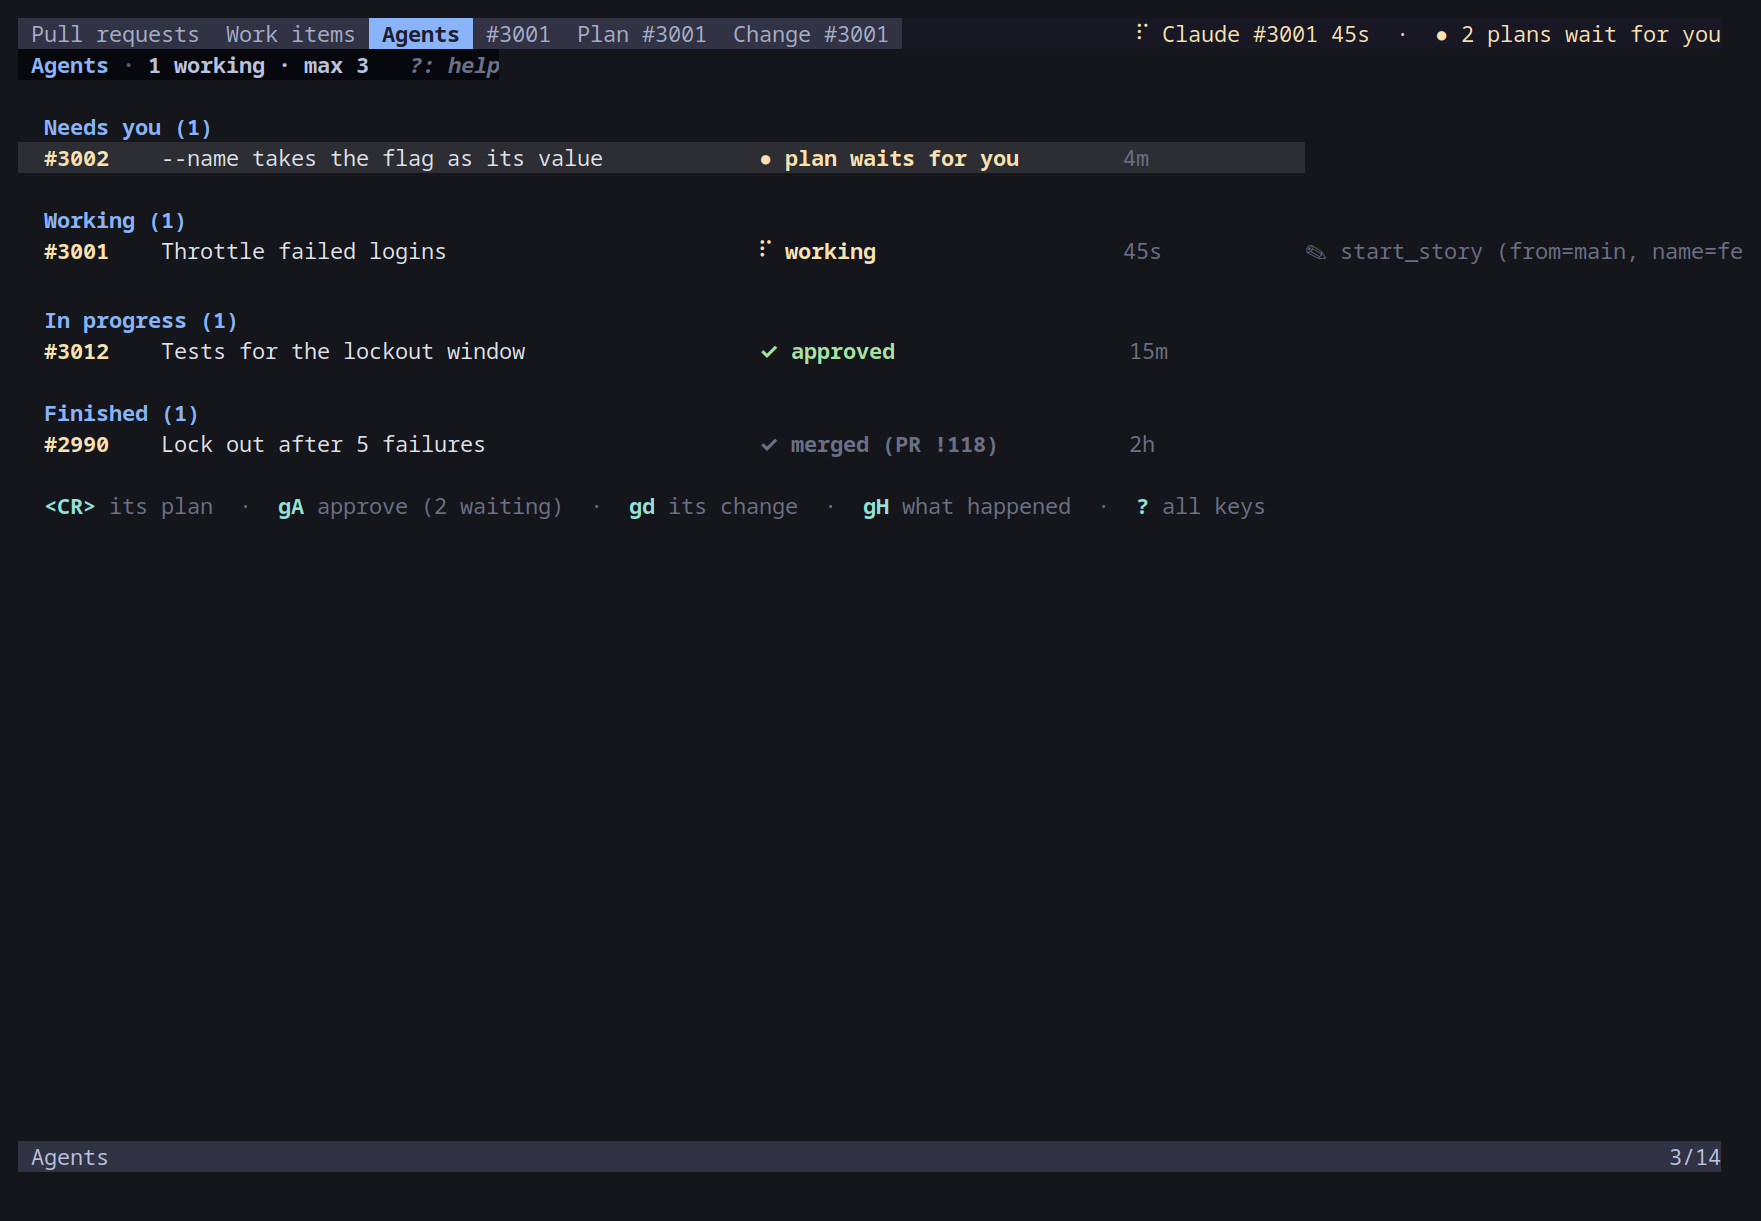
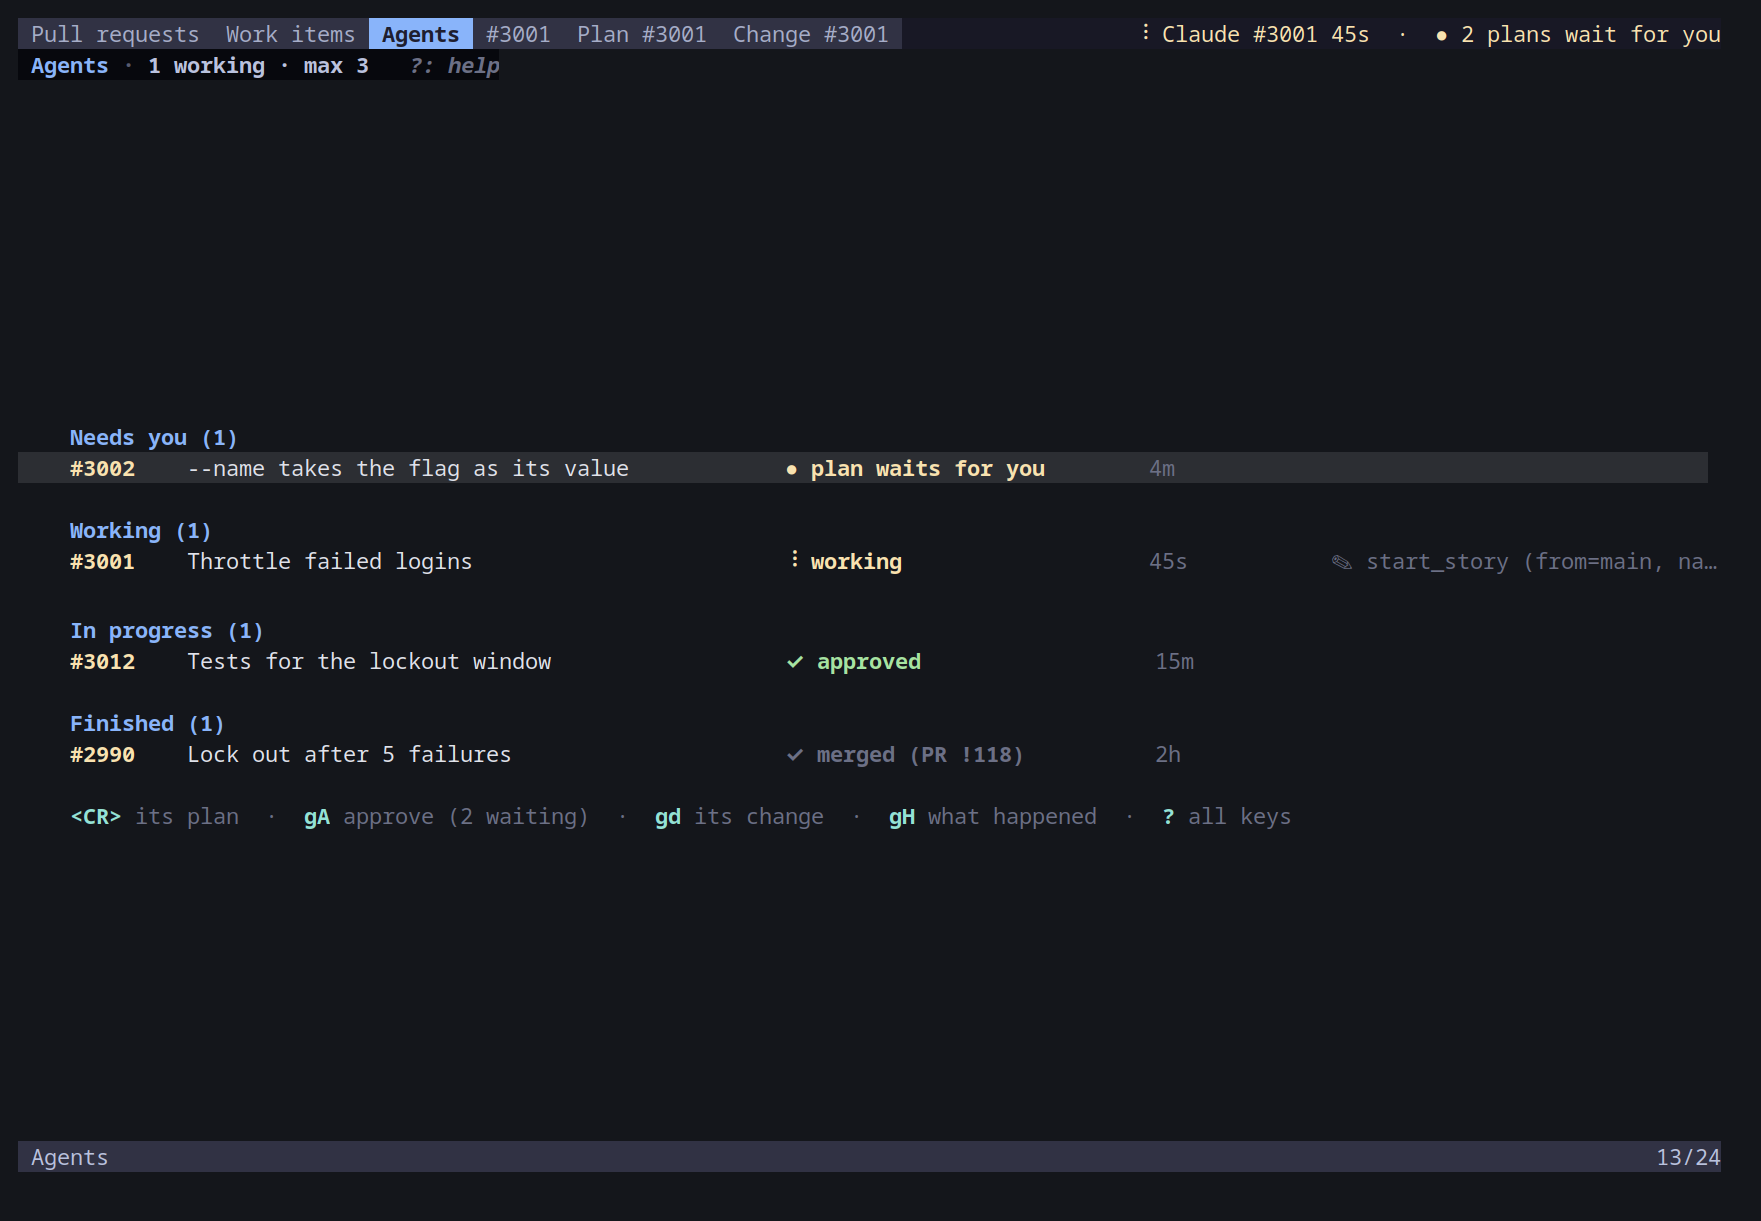
PR dashboard: an agent column and ga for its chat in a popup; the Agents screen is centred
A PR's agent (one fixing its review comments, or the work item's agent
that opened it) shows in a column after threads with its state as the
Agents screen has it, following the agent between polls. ga opens that
agent's conversation in a popup over the dashboard, using the chat's own
buffers: i types, <CR> sends to that agent, q closes. The batch smoke
check's unread-dot test now looks only before the PR id, since the agent
column has its own dots.

Claude-Session: https://claude.ai/code/session_01A9LeS8yZgARUJ5MKQDRoSq

diff --git a/docs/dashboard.md b/docs/dashboard.md
@@ -36,7 +36,8 @@ Actionable just shows `Pull requests   ?: help`).
 The table's columns scale with the window instead of the fixed widths an
 older version hard-coded: title and reviewer summary grow to fill a wide
 terminal, id/badges/vote/thread-count stay fixed, and on a narrow one the
-reviewer summary column drops first, then updated-human, then author (repo
+reviewer summary column drops first, then updated-human, then the agent
+column, then author (repo
 and title just shrink towards their minimum instead of disappearing) - a
 `[narrow]` winbar tag appears whenever a column had to be dropped. Resizing
 the terminal re-renders immediately (`lua/azure-cli/ui.lua`'s `UI.layout`
@@ -63,6 +64,7 @@ solves the widths; see its own header comment for the exact rules).
 | `gW` | Pop up the work items linked to the PR - state, type, title and assignee - where `<CR>` opens one in the work-item detail view, `gs` changes its state, `gl` links another and `gL` unlinks the one under the cursor. A row shows its first linked item next to the title, e.g. `#3001` or `#3001 +1`, once they've been read in the background |
 | `gl` / `gL` | Link a work item to the PR (a popup of your sprint's items, or type an id) / unlink one (a popup of its linked items). Both dashboards update straight away |
 | `gq` | Show/hide the [chat panel](chat.md); the agent knows which PR is under the cursor |
+| `ga` | The conversation of the PR's agent (see the agent column below) in a popup over the dashboard: `i` types to it, `<CR>` sends, `q` (or leaving it) closes |
 | `W` | Switch to the work-items dashboard |
 | `q` | Quit |
 
@@ -76,6 +78,13 @@ Each row carries badges to the left of the id:
 | `⇣` | Branches or content being fetched in the background right now |
 | `◆` | Fully prefetched; opens instantly |
 | `@` | An active thread mentions you; the PR also appears under Mentions |
+
+While a listed PR has an [agent](chat.md#several-agents-at-once) - one
+started on it to fix its review comments, or the work item's agent that
+opened it - an **agent** column after threads shows its state the way the
+Agents screen does (`⋯ working`, `● plan waits for you`, `✓ approved`,
+`✓ PR !101 open`, ...; with several, the one that needs you first). It
+follows the agent between polls, and `ga` opens its conversation in a popup.
 
 The build column to the right of the id shows `✓` succeeded, `✗` failed,
 `↻` expired, and `●` running with the queue position when known. `⚠` marks a

diff --git a/docs/chat.md b/docs/chat.md
@@ -653,7 +653,7 @@ for an agent; its plan waiting for you; approved; revising; pushed;
 `PR !123 open` once it opened one; finished - `merged` or `PR abandoned` -
 once that PR is closed, which it learns from the
 [watched PRs](#conversations-agents-and-models) check), how long since it
-last did something, and what it has used so far, and the winbar adds it up: its cost when the
+last did something, and what it has used so far, centred in its window, and the winbar adds it up: its cost when the
 agent reports one (Claude Code does, and an ACP agent can, through ACP's
 `usage_update`), else its premium requests (`agent.premium_requests`:
 each message counts as its model's multiplier). An ACP agent's
@@ -683,7 +683,9 @@ agent opened for a work item goes back to that agent instead - the one
 that wrote the original plan and knows the change: it plans the fix as a
 new revision of that plan (on the Agents screen it's the work item's row
 again, waiting for you), and once you approve, it changes its story's
-worktree and pushes to the PR's branch.
+worktree and pushes to the PR's branch. On the PR dashboard, the agent
+column shows each PR's agent and what it's doing, and `ga` there opens
+its conversation in a popup ([dashboard](dashboard.md)).
 
 Every plan opens in a tab of its own, and so does every change - opening
 another doesn't replace the one you were reading, and `r`, `gA` or `ga`

diff --git a/docs/commands-and-keys.md b/docs/commands-and-keys.md
@@ -95,6 +95,7 @@ paste the output here after changing a default.
 
 | Action | Default key(s) |
 |---|---|
+| `agent_chat` | `ga` |
 | `agents` | `A` |
 | `browser` | `o` |
 | `chat` | `gq` |
